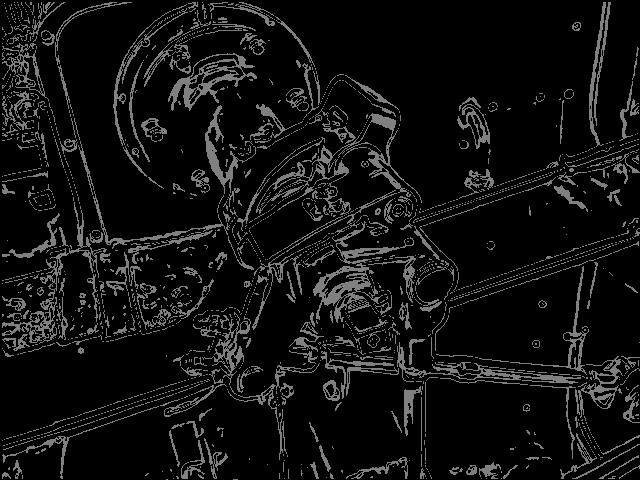
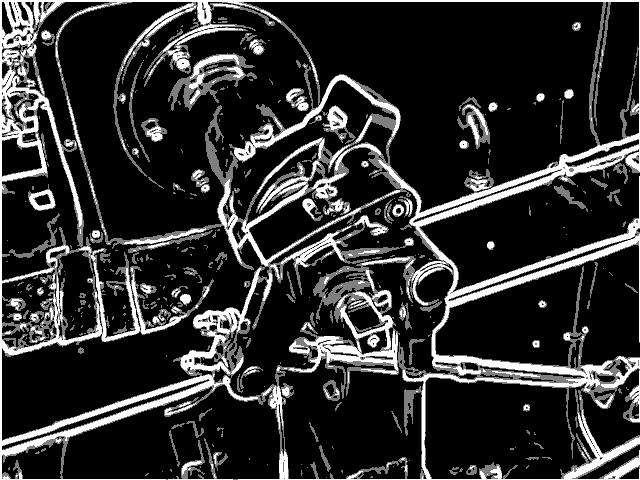
pour marco

diff --git a/project-gpu.py b/project-gpu.py
@@ -1,35 +1,103 @@
 import numpy as np
-from numba import cuda
+from numba import cuda, float32
 from PIL import Image
 import argparse
 import time
+from math import sqrt, ceil
+
 
 # CUDA kernel functions for image processing
-# Define your CUDA kernel functions here
+# definition de tous les noyaux dont on aura besoin
+gaussian_kernel = np.array([[1, 4, 6, 4, 1],
+                            [4, 16, 24, 16, 4],
+                            [6, 24, 36, 24, 6],
+                            [4, 16, 24, 16, 4],
+                            [1, 4, 6, 4, 1]], dtype=np.float32)
 
-# Function to apply black and white kernel
+sobel_x_kernel = np.array([[-1, 0, 1],
+                           [-2, 0, 2],
+                           [-1, 0, 1]], dtype=np.float32)
+
+sobel_y_kernel = np.array([[-1, -2, -1],
+                           [0, 0, 0],
+                           [1, 2, 1]], dtype=np.float32)
+
+
+# fonction pour passer en niveaux de gris
 @cuda.jit
 def rgb_to_bw_kernel(rgb_img, bw_img):
-    pass
-    # Implement your CUDA kernel for black and white conversion here
+    x, y = cuda.grid(2)
+    if x < rgb_img.shape[0] and y < rgb_img.shape[1]:
+        R = rgb_img[x, y, 0]
+        G = rgb_img[x, y, 1]
+        B = rgb_img[x, y, 2]
+        bw_img[x, y] = 0.3 * R + 0.59 * G + 0.11 * B
 
-# Function to apply Gaussian blur kernel
+# Fonction de flou gaussien CUDA
 @cuda.jit
-def gaussian_blur_kernel(input_image, output_image, kernel):
-    pass
-    # Implement your CUDA kernel for Gaussian blur here
+def gaussian_blur_cuda(input_image, output_image, kernel):
+    x, y = cuda.grid(2)
+    if x < input_image.shape[0] and y < input_image.shape[1]:
+        output_pixel_value = 0.0
+        kernel_sum = 0.0  # Variable to store the sum of kernel weights
+        for i in range(-2, 3):
+            for j in range(-2, 3):
+                x_i = x + i
+                y_i = y + j
+                if x_i >= 0 and x_i < input_image.shape[0] and y_i >= 0 and y_i < input_image.shape[1]:
+                    output_pixel_value += input_image[x_i,
+                                                      y_i] * kernel[i + 2, j + 2]
+                    kernel_sum += kernel[i + 2, j + 2]
+        # Normalize by the sum of kernel weights
+        output_image[x, y] = output_pixel_value / kernel_sum
 
-# Function to apply Sobel kernel
+# Fonction d'application du filtre de Sobel
 @cuda.jit
-def sobel_kernel(input_image, magnitude, angle):
-    pass
-    # Implement your CUDA kernel for Sobel here
+def sobel_kernel(input_image, output_image):
+    x, y = cuda.grid(2)
+    if x >= input_image.shape[0] or y >= input_image.shape[1]:
+        return
+        # Appliquer le filtre de Sobel
+    Gx = float32(0.0)
+    Gy = float32(0.0)
+    for k in range(-1, 2):
+        for l in range(-1, 2):
+            if x + k > 0 and x + k <= input_image.shape[0] and y + l > 0 and y + l <= input_image.shape[1]:
+                Gx += input_image[x + k, y + l] * sobel_x_kernel[k + 1, l + 1]
+                Gy += input_image[x + k, y + l] * sobel_y_kernel[k + 1, l + 1]
+    output_image[x, y] = min(sqrt(Gx**2 + Gy**2), 175)
 
-# Function to apply threshold kernel
+
 @cuda.jit
-def threshold_kernel(magnitude, threshold_low, threshold_high):
-    pass
-    # Implement your CUDA kernel for thresholding here
+def threshold_kernel(input_image, threshold_low, threshold_high, output_image):
+    x, y = cuda.grid(2)
+    if x < input_image.shape[0] and y < input_image.shape[1]:
+        if input_image[x, y] < threshold_low / 255:
+            output_image[x, y] = 0  # Edge below low threshold
+        elif input_image[x, y] > threshold_high / 255:
+            output_image[x, y] = 255  # Edge above high threshold
+        else:
+            output_image[x, y] = 128  # Potential edge between thresholds
+
+@cuda.jit
+def hysteresis(input_image, output_image):
+    x, y = cuda.grid(2)
+    if x >= input_image.shape[0] or y >= input_image.shape[1]:
+        return
+    if input_image[x, y] > 254:
+        output_image[x, y] = 1
+        return
+    if input_image[x, y] < 1:
+        output_image[x, y] = 0
+        return
+    for k in range(-1, 2):
+        for l in range(-1, 2):
+            if x + k > 0 and x + k <= input_image.shape[0] and y + l > 0 and y + l <= input_image.shape[1]:
+                if input_image[x+k, y+l] > 254:
+                    output_image[x, y] = 1
+                    return
+    output_image[x, y] = 0; 
+
 
 # Parse command-line arguments
 def parse_args():
@@ -56,6 +124,8 @@ def main():
 
     # Initialize CUDA device arrays
     d_input_image = cuda.to_device(input_image)
+    blurred_image = cuda.to_device(input_image)
+    
     d_output_image = cuda.to_device(output_image)
 
     # Define block and grid dimensions

diff --git a/projet.py b/projet.py
@@ -30,8 +30,6 @@ def rgb_to_bw_kernel(rgb_img, bw_img):
         bw_img[x, y] = 0.3 * R + 0.59 * G + 0.11 * B
 
 # Fonction de flou gaussien CUDA
-
-
 @cuda.jit
 def gaussian_blur_cuda(input_image, output_image, kernel):
     x, y = cuda.grid(2)
@@ -73,22 +71,25 @@ def threshold_kernel(input_image, threshold_low, threshold_high, output_image):
         if input_image[x, y] < threshold_low / 255:
             output_image[x, y] = 0  # Edge below low threshold
         elif input_image[x, y] > threshold_high / 255:
-            output_image[x, y] = 255  # Edge above high threshold
+            output_image[x, y] = 1  # Edge above high threshold
         else:
-            output_image[x, y] = 128  # Potential edge between thresholds
+            output_image[x, y] = 0.5  # Potential edge between thresholds
 
 @cuda.jit
 def hysteresis(input_image, output_image):
     x, y = cuda.grid(2)
     if x >= input_image.shape[0] or y >= input_image.shape[1]:
         return
-    if input_image[x, y] > 254:
+    if input_image[x, y] == 1:
         output_image[x, y] = 1
+        return
+    if input_image[x, y] < 1:
+        output_image[x, y] = 0
         return
     for k in range(-1, 2):
         for l in range(-1, 2):
             if x + k > 0 and x + k <= input_image.shape[0] and y + l > 0 and y + l <= input_image.shape[1]:
-                if input_image[x+k, y+l] > 254:
+                if input_image[x+k, y+l] == 1:
                     output_image[x, y] = 1
                     return
     output_image[x, y] = 0; 
@@ -132,16 +133,14 @@ hysteresised_image = cuda.to_device(hysteresised)
 
 # Définir les dimensions de la grille et des blocs CUDA
 threads_per_block = (16, 16)
-#blocks_per_grid_x = (input_image.shape[0] + threads_per_block[0] - 1) // threads_per_block[0]
-#blocks_per_grid_y = (input_image.shape[1] + threads_per_block[1] - 1) // threads_per_block[1]
 blocks_per_grid = compute_thread_blocks(input_image, threads_per_block)
 
 
-# Appliquer le filtre noir et blanc en utilisant CUDA
+# Appliquer le filtre noir et blanc
 rgb_to_bw_kernel[blocks_per_grid, threads_per_block](d_input_image, gl_image)
-# Appliquer le flou gaussien en utilisant CUDA
+# Appliquer le flou gaussien
 gaussian_blur_cuda[blocks_per_grid, threads_per_block](gl_image, blurred_image, gaussian_kernel)
-# Appliquer le filtre de Sobel en utilisant CUDA
+# Appliquer le filtre de Sobel
 sobel_kernel[blocks_per_grid, threads_per_block](blurred_image, sobeled_image)
 # appliquer le filtre de seuillage
 threshold_kernel[blocks_per_grid, threads_per_block](sobeled_image, 51, 102, thresoled_image)

diff --git a/test.py b/test.py
@@ -31,11 +31,12 @@ transfer_from_boole("out*")
 images = [f for f in os.listdir() if f.startswith("output_")]
 
 input_image = Image.open(input)
-mixed = Image.new("RGB", ((5 + input_image.size[0]) * len(images), input_image.size[1]) , (255, 255, 255))
+x, y = input_image.size
+mixed = Image.new("RGB", ((5 + x) * (len(images)+1) - 5, y) , (255, 255, 255))
 mixed.paste(input_image, (0, 0))
 # compile all images in one
 for i in range(len(images)):
-    mixed.paste(Image.open(images[i]), ((input_image.size[0] + 5)*i - 5, 0))
+    mixed.paste(Image.open(images[i]), ((x + 5)*(i+1), 0))
 mixed.save("mixed.jpg")
 
 mixed = Image.open("mixed.jpg")
